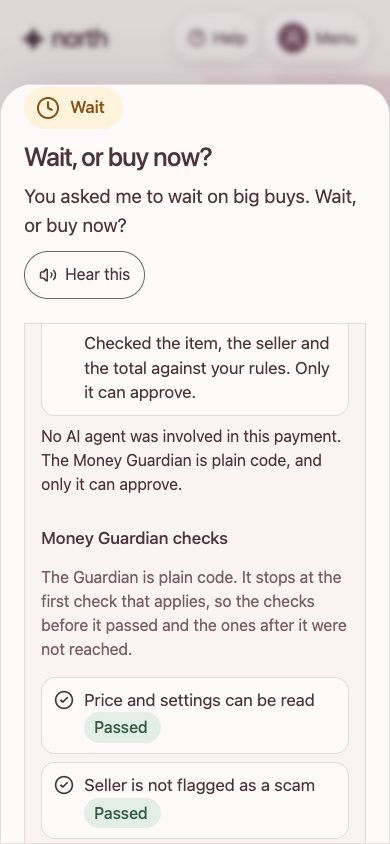
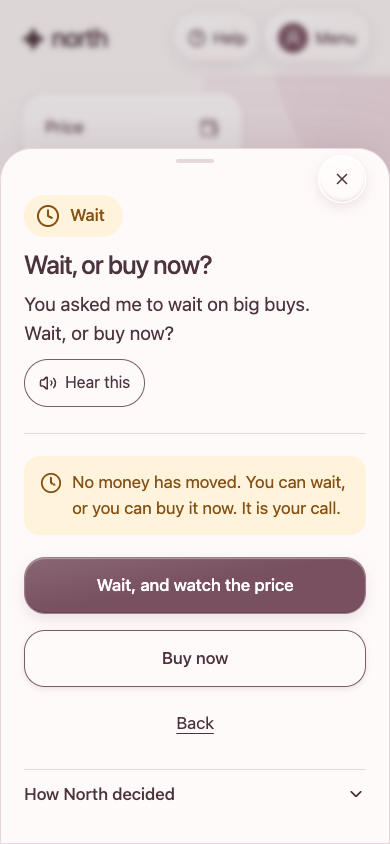
Decision dialogs open at the top with actions first and How North decided collapsed; padded pinned header; no stray border; Ask North hint when empty; screenshots collapsed and expanded

Changed region(s): [[0.0, 0.0924, 1.0, 0.9858], [0.8923, 0.9242, 0.9231, 0.955]]

diff --git a/src/app/ask-north.tsx b/src/app/ask-north.tsx
@@ -41,6 +41,7 @@ const CONCIERGE = { name: "Concierge", ai: true, did: "Read what you wrote and c
 
 export function AskNorth({ variant = "dialog", below }: { variant?: "dialog" | "home"; /** Shown right under the form, above any answer (Home puts its quick buttons here). */ below?: React.ReactNode }) {
   const home = variant === "home";
+  const hintId = home ? "ask-hint-home" : "ask-hint";
   const [text, setText] = useState("");
   const [picture, setPicture] = useState<Picture | null>(null);
   const [busy, setBusy] = useState(false);
@@ -48,6 +49,8 @@ export function AskNorth({ variant = "dialog", below }: { variant?: "dialog" | "
   const [answer, setAnswer] = useState<Answer | null>(null);
   const [error, setError] = useState("");
   const [price, setPrice] = useState("");
+
+  const empty = !text.trim() && !picture;
 
   async function ask(extra?: { route: string; extra: Record<string, unknown> }) {
     if (busy || (!text.trim() && !picture)) return;
@@ -78,7 +81,8 @@ export function AskNorth({ variant = "dialog", below }: { variant?: "dialog" | "
           <textarea value={text} onChange={(e) => setText(e.target.value)} rows={home ? 3 : 2} maxLength={500} className={`${field}${home ? " ng-askbox-field" : ""}`} placeholder="Tell North what you need, paste a deal, or add a photo" />
         </label>
         <PicturePicker id={home ? "ask-picture-home" : "ask-picture"} label="Or add a photo" picture={picture} onChange={setPicture} compact={home} />
-        <button type="submit" className={btnPrimary} disabled={busy || (!text.trim() && !picture)}>{busy ? "One moment…" : "Ask North"}</button>
+        <button type="submit" className={btnPrimary} disabled={busy || empty} aria-describedby={empty && !busy ? `${hintId}` : undefined}>{busy ? "One moment…" : "Ask North"}</button>
+        {empty && !busy && <p id={hintId} className="n-hint">Type or add a photo first.</p>}
       </form>
       {below}
       {error && <p role="alert" className="n-note n-note-stop"><span>{error}</span></p>}

diff --git a/src/app/north-shell.css b/src/app/north-shell.css
@@ -465,3 +465,22 @@ html { scroll-padding-top: 96px; }
 .ng-mode-opt:has(input:checked) { border-color: var(--n-accent); box-shadow: inset 0 0 0 1px var(--n-accent); font-weight: 500; }
 .ng-mode-opt input { width: 22px; height: 22px; accent-color: var(--n-accent); flex-shrink: 0; }
 .ng-mode-opt:has(input:focus-visible) { outline: 3px solid var(--n-focus); outline-offset: 2px; }
+
+/* ---- Decision dialog: the pinned answer, breathing room at the top, and a quiet "How North decided" (Nov 10) ---- */
+/* The pinned block sticks to the very top of the scrolling area and has its own top padding, so the badge never touches the edge. */
+.ng-sheet .gd-pin { top: 0; padding: 24px 0 16px; margin: 0; z-index: 3; }
+.ng-sheet { padding-top: 0; }
+.ng-sheet { --sheet-gap: 20px; gap: var(--sheet-gap); }
+@media (max-width: 650px) { .ng-sheet { --sheet-gap: 22px; } }
+/* the close button stays in the top corner while the dialog scrolls, without taking any room of its own */
+.ng-sheet > .ng-sheet-top { position: sticky; top: 0; height: 0; min-height: 0; margin: 0 0 calc(-1 * var(--sheet-gap)) !important; z-index: 5; overflow: visible; }
+.ng-sheet > .ng-sheet-top .ng-sheet-close { position: absolute; top: 6px; right: 0; }
+.ng-sheet .gd-pin { padding-right: 56px; } /* room for the close button, so it never overlaps the answer */
+/* "How North decided" is a plain row at the end: no box, so no stray side lines when it is open and scrolled. */
+.ng-sheet .gd-how.n-disc { border: 0; border-top: 1px solid var(--n-line); border-radius: 0; background: transparent; margin-top: 4px; }
+.ng-sheet .gd-how .n-disc-btn { padding-left: 0; padding-right: 0; }
+.ng-sheet .gd-how .n-disc-body { padding-left: 0; padding-right: 0; }
+.ng-sheet { scrollbar-gutter: stable; }
+.n-hint { margin: 0; color: var(--n-ink); font-size: 16px; }
+/* a button that is not ready yet keeps its shape and reads as "not yet", with a hint under it */
+.n-btn[disabled] { opacity: .7; }

diff --git a/src/components/shell/dialog.tsx b/src/components/shell/dialog.tsx
@@ -43,6 +43,7 @@ export function Dialog({
     const laptop = window.matchMedia("(min-width: 651px)").matches;
     if (!reduced && typeof sheet.animate === "function") sheet.animate(sheetFrames(laptop), { duration: MOTION.sheet.durationMs, easing: "linear", fill: "none" });
     (sheet.querySelector<HTMLElement>("[data-autofocus]") ?? sheet).focus({ preventScroll: true });
+    sheet.scrollTop = 0;
 
     const onKey = (e: KeyboardEvent) => {
       if (e.key === "Escape" && dismissable) {
@@ -73,6 +74,11 @@ export function Dialog({
       if (opener && document.contains(opener)) opener.focus({ preventScroll: true });
     };
   }, [root, reduced, dismissable]);
+
+  // A new screen inside the same dialog (the check finishing, an answer replacing "checking") always starts at the top.
+  useEffect(() => {
+    if (sheetRef.current) sheetRef.current.scrollTop = 0;
+  }, [label, root]);
 
   if (!root) return null;
   return createPortal(

diff --git a/src/components/checkout-dialog.tsx b/src/components/checkout-dialog.tsx
@@ -67,6 +67,8 @@ export function CheckoutDialog({
     const p = o.purchase;
     return (
       <DecisionDialog view={view} onClose={onClose} hear={`Approved. You bought ${p.name} for ${formatMoney(p.amountCents)}. You'll still have ${formatMoney(o.leftCents)} this week.`}>
+        <Link href="/money" className="n-btn n-btn-primary">See my money</Link>
+        <Link href="/find" className="n-btn n-btn-quiet">Keep looking</Link>
         <div className="ng-review" role="group" aria-label="Your receipt">
           <Row label="Item">{p.name}</Row>
           <Row label="Total">{formatMoney(p.amountCents)}</Row>
@@ -83,8 +85,6 @@ export function CheckoutDialog({
             </div>
           </Disclosure>
         )}
-        <Link href="/money" className="n-btn n-btn-primary">See my money</Link>
-        <Link href="/find" className="n-btn n-btn-quiet">Keep looking</Link>
         {panel}
       </DecisionDialog>
     );
